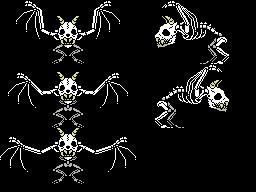
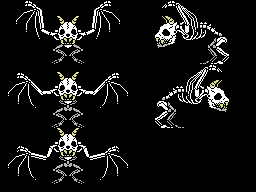
boss 2 can start to fly

Changed region(s): [[0.3125, 0.7188, 0.5312, 0.9062], [0.0, 0.7188, 0.2188, 0.9062]]

diff --git a/java/src/xspelunker2/Bosses.java b/java/src/xspelunker2/Bosses.java
@@ -179,10 +179,10 @@ public class Bosses {
             // flying:
             addNameTable(nameTable, 2, 0, 15, 8, nameTableData);  // appearing 1 (606 + 13*8)            
             addNameTable(nameTable, 1, 9, 16, 16, nameTableData);  // appearing 1 (710 + 15*7)            
-            addNameTable(nameTable, 0, 16, 17, 23, nameTableData);  // appearing 1 (815 + 17*7)            
+            addNameTable(nameTable, 1, 16, 16, 23, nameTableData);  // appearing 1 (815 + 15*7)            
             // taking off:
-            addNameTable(nameTable, 19, 0, 29, 8, nameTableData);  // appearing 1 (934 + 10*8)
-            addNameTable(nameTable, 19, 8, 29, 16, nameTableData);  // appearing 1 (1014 + 10*8)
+            addNameTable(nameTable, 19, 0, 29, 8, nameTableData);  // appearing 1 (920 + 10*8)
+            addNameTable(nameTable, 19, 8, 29, 16, nameTableData);  // appearing 1 (1000 + 10*8)
         }        
 
         System.out.println("name tables: " + nameTableData.size() + " bytes");
@@ -209,9 +209,11 @@ public class Bosses {
         data.addAll(GenerateSprites.extractSprite(sourceImage, 0, 48, 15));  // sonic boom
         data.addAll(GenerateSprites.extractSprite(sourceImage, 16, 48, 15));
         data.addAll(GenerateSprites.extractSprite(sourceImage, 32, 48, 15));
+
+        data.addAll(GenerateSprites.extractSprite(sourceImage, 48, 32, 15));  // eyes front
         
         // filler until reaching the bat sprite:
-        for(int i = 10;i<16;i++) {
+        for(int i = 11;i<16;i++) {
             for(int j = 0;j<32;j++) data.add(0);
         }
         
